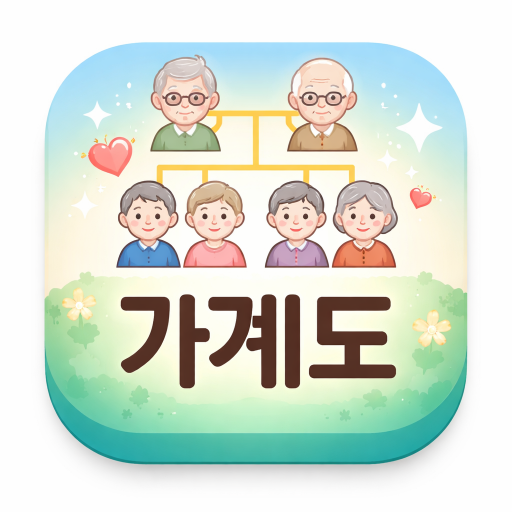
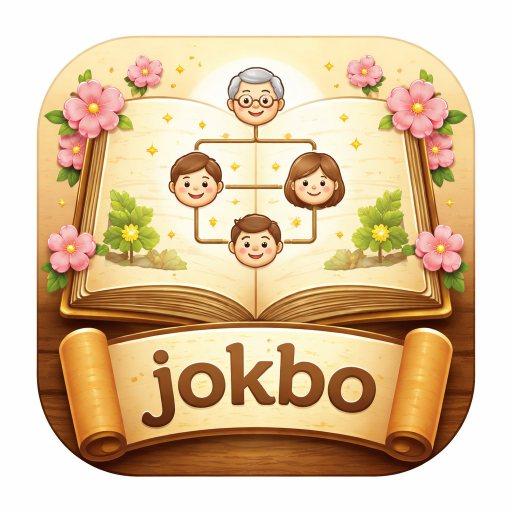
puzzled

diff --git a/app/layout.tsx b/app/layout.tsx
@@ -13,7 +13,7 @@ const geistMono = Geist_Mono({
 
 // 이 부분을 수정했습니다!
 export const metadata: Metadata = {
-  title: "가계도", // 폰 아이콘 아래에 표시될 이름
+  title: "JokBo", // 폰 아이콘 아래에 표시될 이름
   description: "가족의 역사를 기록하는 족보 앱",
   icons: {
     icon: "/icon.png",        // 일반 아이콘
